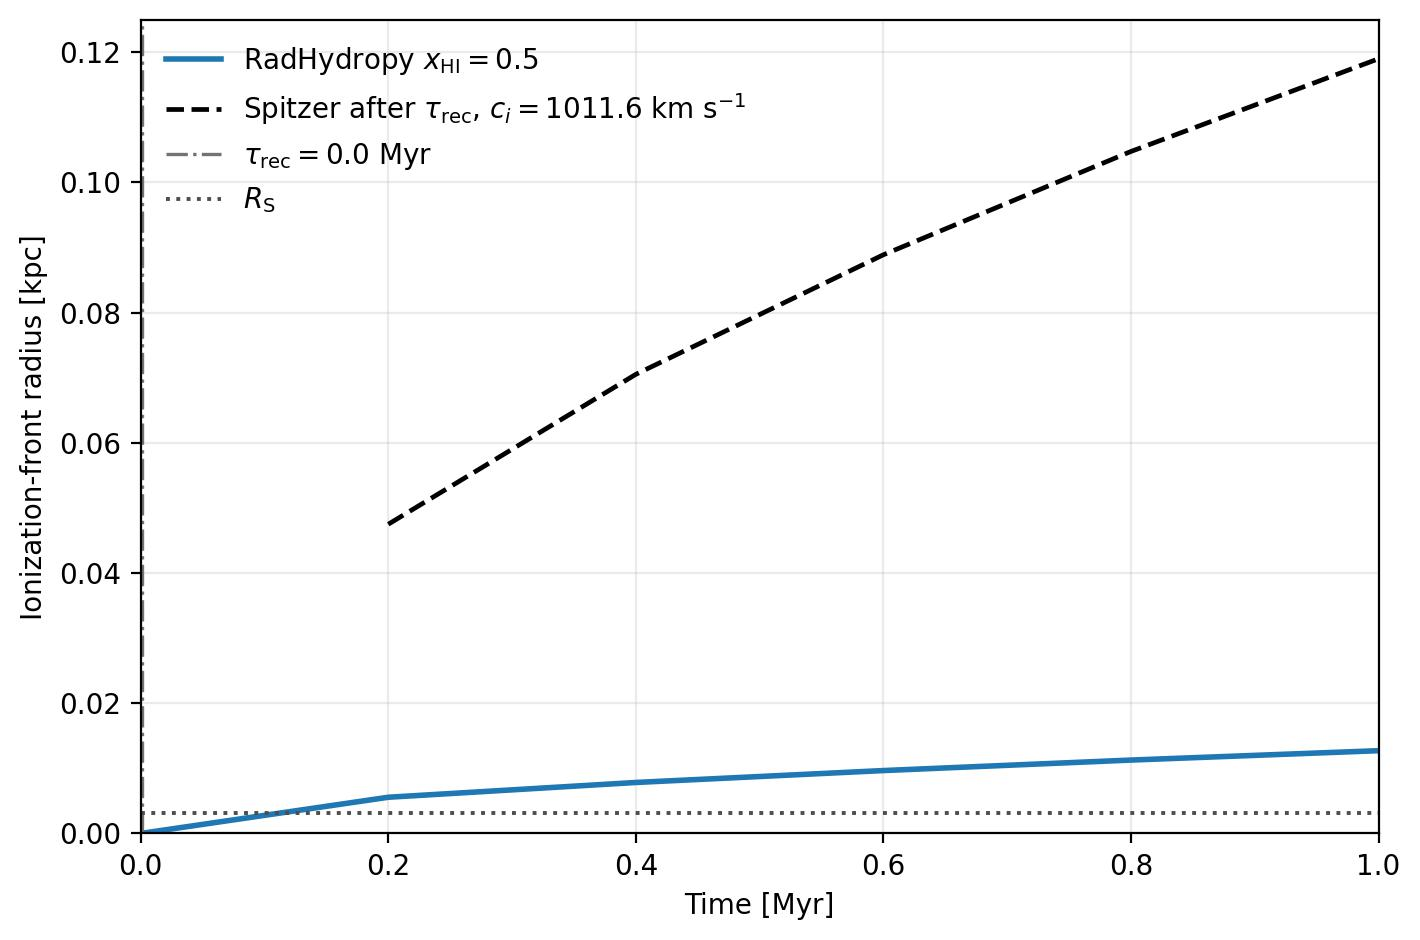
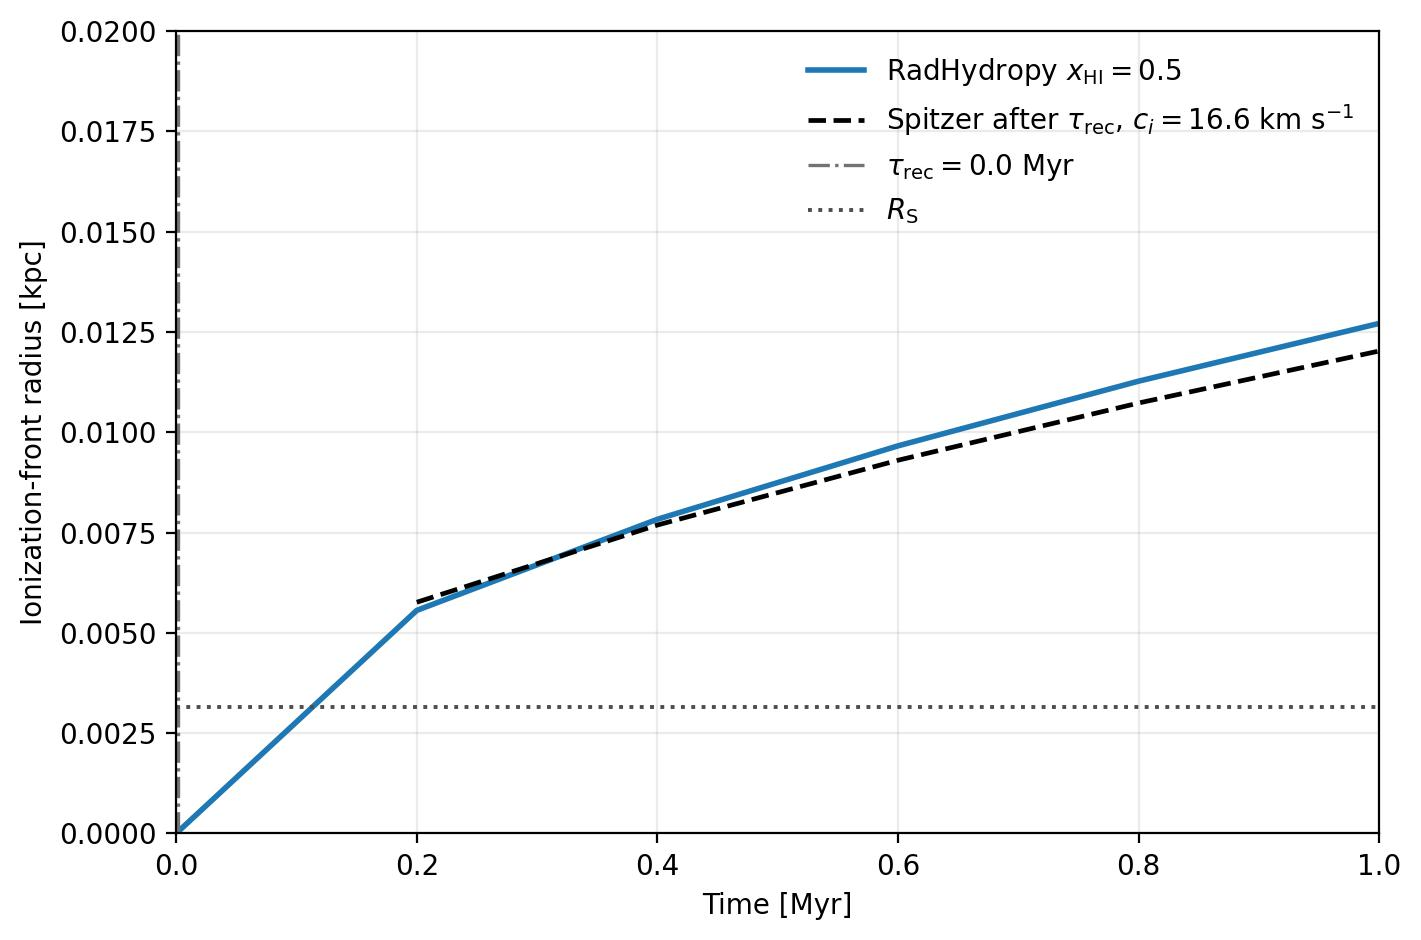
Update spitzer solution

diff --git a/example/DynamicStromgrenSpherePhotoheating1D/tools.py b/example/DynamicStromgrenSpherePhotoheating1D/tools.py
@@ -19,6 +19,8 @@ from radhydropy.mesh import Mesh
 from radhydropy.solver import Solver
 from radhydropy.units import CodeUnits, code_quantity_to_cgs, quantity_to_value
 
+IONIZATION_FRONT_NEUTRAL_FRACTION = 0.5
+
 
 def _to_kpc(values, par):
     if hasattr(values, 'to_value'):
@@ -214,26 +216,33 @@ def interior_slice(par):
     return slice(first, first + par.nogrid)
 
 
-def ionization_front_position(mesh, fluid, par, neutral_fraction=0.5):
+def ionization_front_position(
+    mesh,
+    fluid,
+    par,
+    neutral_fraction=IONIZATION_FRONT_NEUTRAL_FRACTION,
+):
     interior = interior_slice(par)
     radius = _to_kpc(mesh.coordinate[interior], par)
     xHI = np.asarray(fluid.xHI[interior], dtype=float)
 
-    ionized = xHI <= neutral_fraction
-    if not np.any(ionized):
+    if np.all(xHI > neutral_fraction):
         return 0.0
-    if np.all(ionized):
+    if np.all(xHI <= neutral_fraction):
         return radius[-1]
 
-    outer_ionized_index = np.where(ionized)[0][-1]
-    left = outer_ionized_index
-    right = outer_ionized_index + 1
-    x_left = xHI[left]
-    x_right = xHI[right]
-    if x_right == x_left:
-        return radius[left]
+    # The front is the first outward transition from ionized gas
+    # (xHI <= 0.5) to neutral gas (xHI > 0.5). This remains well-defined
+    # when the profile contains additional ionized pockets farther out.
+    crossings = np.where(
+        (xHI[:-1] <= neutral_fraction) & (xHI[1:] > neutral_fraction)
+    )[0]
+    if crossings.size == 0:
+        return radius[np.where(xHI <= neutral_fraction)[0][-1]]
 
-    weight = (neutral_fraction - x_left) / (x_right - x_left)
+    left = int(crossings[0])
+    right = left + 1
+    weight = (neutral_fraction - xHI[left]) / (xHI[right] - xHI[left])
     return radius[left] + weight * (radius[right] - radius[left])
 
 
@@ -249,7 +258,14 @@ def mean_ionized_temperature(fluid, par):
 
 def append_history(history, mesh, fluid, par):
     history['time_Myr'].append(_to_myr(fluid.time, par))
-    history['front_radius_kpc'].append(ionization_front_position(mesh, fluid, par))
+    history['front_radius_kpc'].append(
+        ionization_front_position(
+            mesh,
+            fluid,
+            par,
+            neutral_fraction=IONIZATION_FRONT_NEUTRAL_FRACTION,
+        )
+    )
     history['mean_ionized_temperature_K'].append(mean_ionized_temperature(fluid, par))
 
 
@@ -287,7 +303,14 @@ def recombination_time(config):
 
 
 def ionized_sound_speed_from_history(history, gamma):
-    temperature = history['mean_ionized_temperature_K'][-1] * unyt.K
+    """Return the Spitzer ionized-gas sound speed at 10^4 K.
+
+    ``history`` is retained in the signature for compatibility with existing
+    callers, but the analytic Spitzer comparison must not depend on the
+    simulated final temperature.
+    """
+    del history
+    temperature = 1.0e4 * unyt.K
     mu_ionized = 0.5
     return np.sqrt(gamma * unyt.kboltz * temperature / (mu_ionized * unyt.mp)).to(
         unyt.km / unyt.s

diff --git a/tests/test_example.py b/tests/test_example.py
@@ -705,6 +705,33 @@ class Testing(unittest.TestCase):
             1000.0,
         )
 
+    def test_dynamic_stromgren_front_uses_first_xhi_half_crossing(self):
+        tools_path = (
+            Path(__file__).resolve().parents[1]
+            / 'example'
+            / 'DynamicStromgrenSpherePhotoheating1D'
+            / 'tools.py'
+        )
+        spec = importlib.util.spec_from_file_location(
+            'dynamic_stromgren_tools_front_test',
+            tools_path,
+        )
+        tools = importlib.util.module_from_spec(spec)
+        assert spec.loader is not None
+        spec.loader.exec_module(tools)
+
+        par = SimpleNamespace(noghost=0, nogrid=5, CodeUnits=None)
+        mesh = SimpleNamespace(
+            coordinate=np.arange(1.0, 6.0) * unyt.kpc,
+        )
+        fluid = SimpleNamespace(
+            xHI=np.array([0.1, 0.2, 0.8, 0.2, 0.9]),
+        )
+
+        front = tools.ionization_front_position(mesh, fluid, par)
+
+        self.assertAlmostEqual(front, 2.5)
+
     def test_radial_profile_csv_uses_cell_centers_and_skips_ghost_cells(self):
         with tempfile.TemporaryDirectory() as tmpdir:
             hdf5_filename = Path(tmpdir) / 'Output_000.hdf5'

diff --git a/docs/dynamic_stromgren_sphere_photoheating20pc_stellar_wind1d.rst b/docs/dynamic_stromgren_sphere_photoheating20pc_stellar_wind1d.rst
@@ -25,9 +25,10 @@ Example figures
 
 The ionization-front figure shows the front radius as a function of time. It
 also shows the classical Stromgren radius, the recombination-time marker, and
-the post-recombination Spitzer expansion estimate for comparison. The central
-wind changes the gas dynamics while the photon source controls the ionization
-front.
+the post-recombination Spitzer expansion estimate for comparison. The Spitzer
+curve uses the ionized-gas sound speed at ``10^4 K`` (about 16.6 km s^-1 for
+``gamma = 5/3`` and ``mu = 0.5``). The central wind changes the gas dynamics
+while the photon source controls the ionization front.
 
 .. figure:: ../example/DynamicStromgrenSpherePhotoheating20pcStellarWind1D/DynamicStromgrenSpherePhotoheating1D_IFront.jpg
    :width: 100%
